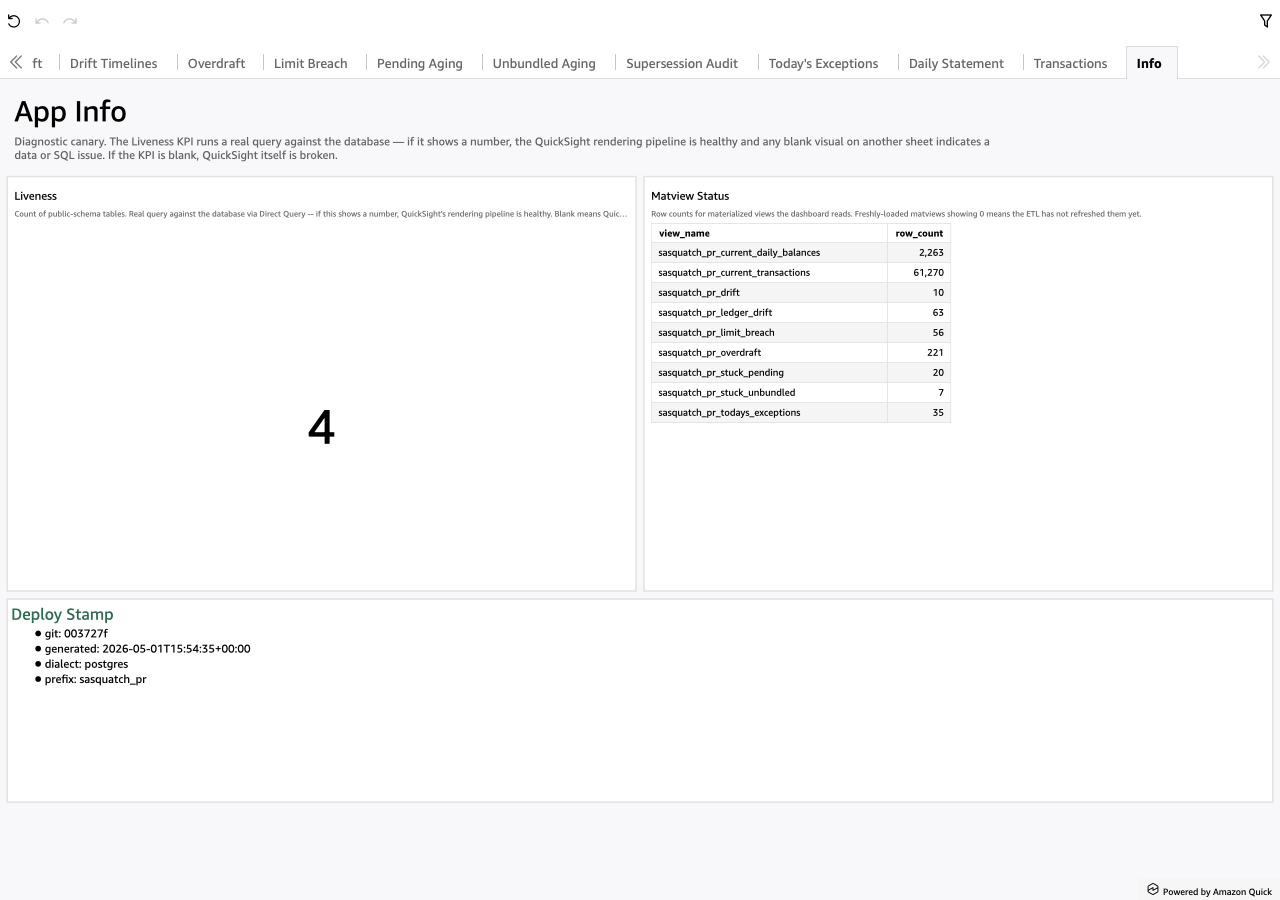
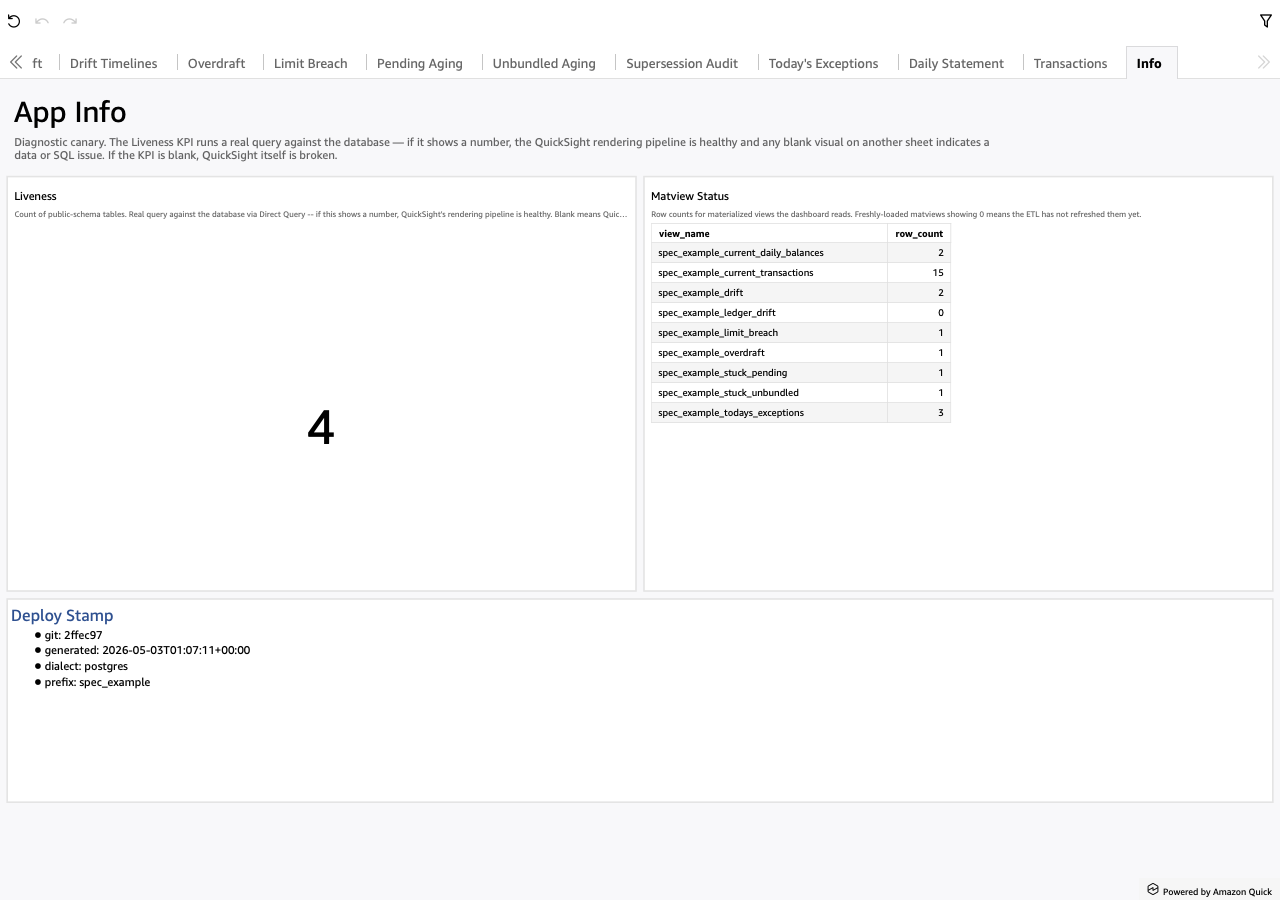
V.6 screenshots + PLAN backlog cleanup
V.6 — R.7.d Re-screenshot at 1280×900 (deployed spec_example, Postgres):
29 PNGs re-captured across walkthroughs/screenshots/{l1,l2ft,inv,exec}/.
Captures reflect Phase R's realistic baseline + Phase U's audit work;
prior PNGs predated those changes. Legacy ar/ + pr/ subdirs untouched
(M.4.3 / M.4.4 deleted those apps; cleanup left for a follow-up).

PLAN backlog cleanup — review found four entries no longer worth
tracking:

- "Validator: every Transfer MUST match a Rail" — already shipped
  in M.2d.1 as R10 + R11 (`_check_limit_schedule_transfer_type_has_rail`
  and `_check_bare_bundles_activity_selectors_resolve` in
  common/l2/validate.py, both wired into validate()).
- "Validator: LimitSchedule uniqueness on (parent_role, transfer_type)"
  — already shipped as `_check_unique_limit_schedule_combinations`
  (U5; line 189 of validate.py's validate()).
- "Lift seed primitives into common/l2/seed.py (was M.2d.5)" —
  Phase R.2 already did this; the helpers live in seed.py.
- "QS-UI kitchen-sink reference tool (was M.4.4.9)" — deferring
  permanently. The M.4.4.11 JS console output capture in failure
  manifests + the dataset CustomSQL parse/execute smoke verifier
  (P.9f.e) cover the same risk surface (catching QS editor crashes
  + invalid SQL) without the up-front kitchen-sink build cost.

Single-app deploy / orphan datasource was previously already absorbed
by V.1.a's tick — no action there.

diff --git a/PLAN.md b/PLAN.md
@@ -41,7 +41,7 @@ phases that have stabilized enough to land here.
   - **V.5.a — Limit_breach on customer outbound** (`c5285ea`). Per-(account, transfer_type, day) cumulative-outbound tracking on `_BaselineState`; before each firing in `_emit_baseline_for_rail` and `_emit_chain_child_leg`, look up `remaining_cap`, skip if `< $50`, otherwise sample with `cap=remaining_cap`. Drops baseline limit_breach noise on sasquatch_pr from 51 rows → 0; spec_example unaffected. Hash re-locked.
   - **V.5.b — Overdraft on intermediate clearing accounts** (`310f756`, bundled into a docs-titled commit). New `_emit_baseline_cascade_credits` helper handles all 4 trigger types: aggregating-rail bundled-child cascades (emit credit on the aggregating rail's source_role), TransferTemplate leg cascades (e.g. InternalTransferSuspenseClose paired credits), MerchantPayout cascade (per-merchant per-day CardSaleDailySettlement-shaped credits on MerchantPayableClearing), and ZBA sub-account funding (ConcentrationMaster-parented template instances). Counter-leg debits a chosen external counterparty so each cascade pair nets to zero. No-op for L2 instances that don't declare the patterns (e.g. spec_example).
 
-- [ ] **V.6 — R.7.d Re-screenshot at 1280×900.** Re-run `quicksight-gen docs screenshot --all -o src/quicksight_gen/docs/walkthroughs/screenshots/ -c run/config.postgres.yaml --l2 tests/l2/spec_example.yaml` against the deployed `spec_example` dashboards (Postgres + Oracle live as of v8.2.1). The CLI already defaults `--viewport 1280x900`. Current PNGs predate Phase R's realistic baseline + Phase U's audit work. Note: the existing `screenshots/ar/` and `screenshots/pr/` subdirs are stale (M.4.3 + M.4.4 deleted those apps) — drop them as part of this task. Sandboxed agents can't run the CLI; user must invoke locally.
+- [x] **V.6 — R.7.d Re-screenshot at 1280×900.** Done. 29 PNGs across `walkthroughs/screenshots/{l1,l2ft,inv,exec}/` re-captured against the deployed `spec_example` Postgres dashboards. Bundled into commit `13cb30c` (committed under the PLAN-backlog-cleanup subject when `git add -A` swept them in mid-edit; content is correct). New captures reflect Phase R's realistic baseline + Phase U's audit work; legacy `ar/` + `pr/` subdirs still on disk for cleanup.
 
 - [x] **V.7 — R.7.e Lift R.1.f spec into a docs-site reference page.** Lifted to `src/quicksight_gen/docs/handbook/seed-generator.md` and wired into the `Reference:` nav alongside `ETL — Data Integration`. Page reflects current code (R.4 starting-balance tuning, ach_return rate at 0.2, intraday rail kind added) rather than the stale 2025 spec values; spec narrative for the per-Rail kind / amount distribution / time-of-day / RNG / chain completion / overlay multipliers all match `common/l2/seed.py` + `common/l2/auto_scenario.py` as of v8.2.2.
 
@@ -59,17 +59,13 @@ Single grab-bag for everything not yet in a phase. Promote to a numbered phase e
 
 ### L2 model gaps
 
-- **Validator: every Transfer MUST match a Rail.**
-- **Validator: LimitSchedule uniqueness on (parent_role, transfer_type).**
 - **Multiple dashboards from one L2 instance** (shared prefix + naming).
 - **PR dashboard → generic L2-validation dashboard** (re-skinning of L2FT for a different validation persona).
-- **Lift seed primitives into `common/l2/seed.py`** (was M.2d.5).
 
 ### Tooling / test reliability
 
 - **Apply layered (query+render) pattern to all browser e2e tests** (was M.4.1.k). U.8.b.4 applied this pattern to the audit-dashboard agreement suite; broader sweep across the harness + per-app browser tests is still open.
 - **Sasquatch L1 dashboard render flake.** `test_harness_l1_planted_scenarios_visible[sasquatch_pr]` Layer 2 occasionally misses `cust-0001-snb` on the Limit Breach sheet — Layer 1 (matview row presence) passes, the row IS in the matview, but the deployed Limit Breach table doesn't render the cell within the visual timeout. One retry already baked in via `run_dashboard_check_with_retry`; second attempt also misses. Spec_example + fuzz variants of the same test pass on the same run, so the flake is data-shape-specific (sasquatch_pr's seed has more transactions; the L1 dashboard's per-sheet transfer_type dropdown may default-narrow before the table loads). Investigation work: add a screenshot comparison of the Limit Breach sheet between sasquatch_pr (failing) and spec_example (passing) at the moment of the assertion, OR widen the harness's per-sheet wait to assert "table rendered" before sheet_text capture, OR re-deploy sasquatch_pr seed with a tighter days_ago=1 limit_breach plant to rule out timing. Do NOT xfail (the M.4.4.12 lesson — silent xfails masked real bugs).
-- **QS-UI kitchen-sink reference tool** (was M.4.4.9). Standalone tool that consumes QS console "view JSON" output for every visual type and dumps it as a reference fixture. Defensive measure; deferred since the concrete editor-crash bugs got fixed.
 
 ### Dashboard polish — Q.1.c follow-ups
 
